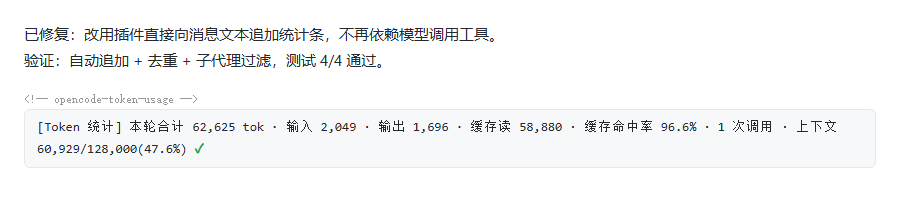
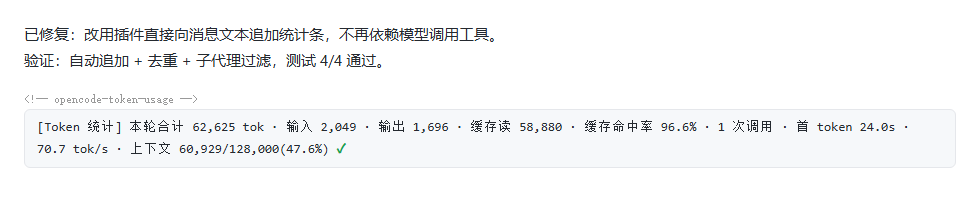
feat: add TTFT (time to first token) and tokens-per-second stats

diff --git a/plugin/opencode-token-usage.ts b/plugin/opencode-token-usage.ts
@@ -21,6 +21,8 @@ type TurnRecord = {
   tokens: TokenBreakdown
   cost: number
   elapsedMs: number
+  ttftMs: number
+  tokensPerSec: number
   contextUsed: number
   contextLimit: number
 }
@@ -110,6 +112,22 @@ const formatDuration = (ms: number) => {
   return `${seconds.toFixed(1)}s`
 }
 
+function computeLatency(info: any, parts: any[] | undefined, tokens: TokenBreakdown): { ttftMs: number; tokensPerSec: number } {
+  const messageCreated = num(info?.time?.created)
+  const times = (Array.isArray(parts) ? parts : [])
+    .filter((p) => p?.type === "text" && !(p as any)?.ignored)
+    .map((p) => ({ created: num(p?.time?.created), completed: num(p?.time?.completed) }))
+    .filter((t) => t.created > 0 || t.completed > 0)
+  if (!times.length || !messageCreated) return { ttftMs: 0, tokensPerSec: 0 }
+  const first = times[0]
+  const last = times[times.length - 1]
+  const ttftMs = Math.max(0, first.completed - messageCreated)
+  const genMs = Math.max(0, last.completed - first.created)
+  const outTokens = tokens.output + tokens.reasoning
+  const tokensPerSec = genMs > 0 && outTokens > 0 ? outTokens / (genMs / 1000) : 0
+  return { ttftMs, tokensPerSec }
+}
+
 async function recordAssistantMessage(info: any) {
   const sessionID = String(info?.sessionID ?? "")
   const messageID = String(info?.id ?? "")
@@ -139,6 +157,8 @@ async function recordAssistantMessage(info: any) {
     tokens,
     cost: num(info.cost),
     elapsedMs,
+    ttftMs: 0,
+    tokensPerSec: 0,
     contextUsed,
     contextLimit,
   }
@@ -172,6 +192,8 @@ function formatTurn(t: TurnRecord): string {
     `[Token 统计] 本轮合计 ${fmt(total)} tok · 输入 ${fmt(t.tokens.input)} tok · 输出 ${fmt(t.tokens.output)} tok`,
     `缓存读 ${fmt(t.tokens.cacheRead)} tok · 缓存命中率 ${hitRate.toFixed(1)}% · 1 次调用`,
   ]
+  if (t.ttftMs > 0) parts.push(`首 token ${(t.ttftMs / 1000).toFixed(1)}s`)
+  if (t.tokensPerSec > 0) parts.push(`${t.tokensPerSec.toFixed(1)} tok/s`)
   if (t.contextLimit > 0) {
     const pct = t.contextUsed > 0 ? ((t.contextUsed / t.contextLimit) * 100).toFixed(1) : "0"
     parts.push(`上下文 ${fmt(t.contextUsed)}/${fmt(t.contextLimit)} tok(${pct}%)`)
@@ -194,6 +216,16 @@ function formatSession(s: SessionRecord | undefined): string {
     parts.push(`上下文 ${fmt(last.contextUsed)}/${fmt(last.contextLimit)} tok(${pct}%)`)
   }
   if (totals.elapsedMs > 0) parts.push(`耗时 ${formatDuration(totals.elapsedMs)}`)
+  const ttftTurns = s.turns.filter((t) => t.ttftMs > 0)
+  if (ttftTurns.length) {
+    const avgTtft = ttftTurns.reduce((a, t) => a + t.ttftMs, 0) / ttftTurns.length
+    parts.push(`首 token 平均 ${(avgTtft / 1000).toFixed(1)}s`)
+  }
+  const tpsTurns = s.turns.filter((t) => t.tokensPerSec > 0)
+  if (tpsTurns.length) {
+    const avgTps = tpsTurns.reduce((a, t) => a + t.tokensPerSec, 0) / tpsTurns.length
+    parts.push(`平均 ${avgTps.toFixed(1)} tok/s`)
+  }
   return parts.join(" · ")
 }
 
@@ -203,6 +235,8 @@ function formatSummary(label: string, sessionCount: number, totals: Totals, gran
     `缓存读 ${fmt(totals.cacheRead)} tok · 缓存命中率 ${hitRate.toFixed(1)}% · ${totals.calls} 次调用 · ${sessionCount} 个会话`,
   ]
   if (totals.elapsedMs > 0) parts.push(`耗时 ${formatDuration(totals.elapsedMs)}`)
+  const outTokens = totals.output + totals.reasoning
+  if (totals.elapsedMs > 0 && outTokens > 0) parts.push(`平均 ${(outTokens / (totals.elapsedMs / 1000)).toFixed(1)} tok/s`)
   return parts.join(" · ")
 }
 
@@ -249,6 +283,16 @@ const TokenUsagePlugin: Plugin = async (ctx) => {
           ? [...parts].reverse().find((candidate) => candidate.type === "text" && !(candidate as any).ignored)
           : undefined
         if (!part || part.type !== "text" || part.text.includes(BADGE_MARKER)) return
+        const latency = computeLatency(info, parts, turn.tokens)
+        turn.ttftMs = latency.ttftMs
+        turn.tokensPerSec = latency.tokensPerSec
+        persist()
+        try {
+          await appendFile(
+            HISTORY_LOG_PATH,
+            `[${new Date().toISOString()}] session=${info.sessionID} msg=${info.id} ttft=${latency.ttftMs}ms tokps=${latency.tokensPerSec.toFixed(1)}\n`,
+          )
+        } catch {}
         const text = `${part.text.trimEnd()}\n\n${BADGE_MARKER}\n\`${formatTurn(turn)}\``
         await client.part.update({
           sessionID: info.sessionID,

diff --git a/skills/token-usage/SKILL.md b/skills/token-usage/SKILL.md
@@ -1,8 +1,8 @@
 ---
 name: token-usage
 description: >-
-  opencode 的 token 用量统计 Skill：自动在每条主 agent 回复底部追加灰色统计条（本轮合计、输入、输出、缓存读、缓存命中率、上下文占用），并提供 token_usage 查询工具（scope=turn/session/project/global）。当用户提到 token 统计、用量、消耗、缓存命中率、上下文占用，或需要统计 opencode 会话 token 消耗时使用。
-  An opencode token-usage statistics skill: automatically appends a gray per-reply badge (turn total, input, output, cache read, cache hit rate, context usage) and provides a token_usage query tool (scope=turn/session/project/global). Use when users mention token usage, consumption, cache hit rate, context usage, or need to track opencode session tokens.
+  opencode 的 token 用量统计 Skill：自动在每条主 agent 回复底部追加灰色统计条（本轮合计、输入、输出、缓存读、缓存命中率、首 token 时间、生成速率 tok/s、上下文占用），并提供 token_usage 查询工具（scope=turn/session/project/global）。当用户提到 token 统计、用量、消耗、缓存命中率、TTFT、首 token、tok/s、上下文占用，或需要统计 opencode 会话 token 消耗时使用。
+  An opencode token-usage statistics skill: automatically appends a gray per-reply badge (turn total, input, output, cache read, cache hit rate, time to first token, tokens per second, context usage) and provides a token_usage query tool (scope=turn/session/project/global). Use when users mention token usage, consumption, cache hit rate, TTFT, time to first token, tok/s, context usage, or need to track opencode session tokens.
 ---
 
 # opencode-token-usage Skill
@@ -19,7 +19,7 @@ description: >-
 
 ```
 <!-- opencode-token-usage -->
-[Token 统计] 本轮合计 62,625 tok · 输入 2,049 · 输出 1,696 · 缓存读 58,880 · 缓存命中率 96.6% · 1 次调用 · 上下文 60,929/128,000(47.6%) ✓
+[Token 统计] 本轮合计 62,625 tok · 输入 2,049 · 输出 1,696 · 缓存读 58,880 · 缓存命中率 96.6% · 1 次调用 · 首 token 24.0s · 70.7 tok/s · 上下文 60,929/128,000(47.6%) ✓
 ```
 
 ## 安装插件
@@ -60,4 +60,5 @@ curl -sSL https://raw.githubusercontent.com/YUNonce2233/opencode-token-usage/mas
 - 只统计插件运行期间产生的新回复；历史旧回复不追溯。
 - 子代理（general/explore/plan）与 compaction 消息不加统计条。
 - 缓存命中率显示 provider 上报的缓存字段；若中转站未上报则显示 0%，属服务端行为。
+- 首 token 时间 = 首个文本 part 完成时间 − 消息创建时间；生成速率 = 输出 token 数 ÷ 生成耗时。若无 parts 时间戳则不显示。
 - 数据纯本地，不上传；统计数字仅供参考，可能与模型提供方账单存在差异。

diff --git a/README.md b/README.md
@@ -23,7 +23,7 @@
 
 ```
 <!-- opencode-token-usage -->
-[Token 统计] 本轮合计 62,625 tok · 输入 2,049 · 输出 1,696 · 缓存读 58,880 · 缓存命中率 96.6% · 1 次调用 · 上下文 60,929/128,000(47.6%) ✓
+[Token 统计] 本轮合计 62,625 tok · 输入 2,049 · 输出 1,696 · 缓存读 58,880 · 缓存命中率 96.6% · 1 次调用 · 首 token 24.0s · 70.7 tok/s · 上下文 60,929/128,000(47.6%) ✓
 ```
 
 ## 功能特性
@@ -31,6 +31,8 @@
 | 功能 | 说明 |
 | --- | --- |
 | 自动统计条 | 主 agent（排除 `general`/`explore`/`plan` 子代理与 compaction）回复完成后，自动在回复末尾追加灰色统计条 |
+| 首 token 时间 | 从消息 parts 时间戳计算 TTFT，显示 `首 token X.Xs`；会话/项目/全局展示平均值 |
+| 生成速率 | 输出 token 数 ÷ 生成耗时，显示 `X.X tok/s`；聚合范围展示平均值 |
 | `token_usage` 工具 | `scope=turn \| session \| project \| global` 四种范围 + 可选 `detail` 明细 |
 | `/token-usage` 命令 | 对话中直接输入，查询当前会话统计 |
 | 本地持久化 | `ledger.json` 结构化账本 + `usage.log` 人类可读日志，纯本地，不上传 |
